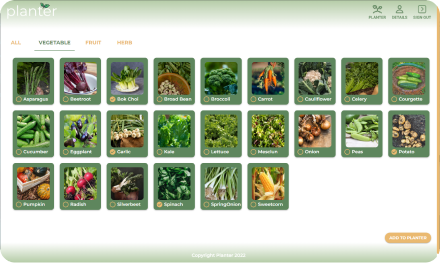
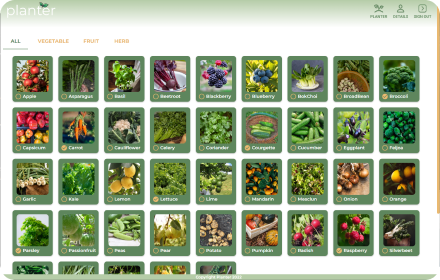
Monthly planter ui and planting tip flip cards completed

diff --git a/src/Pages/PlannerViewPage.jsx b/src/Pages/PlannerViewPage.jsx
@@ -12,6 +12,7 @@ import Navbar from "../Components/Navbar";
 import YearlyPlannerTable from "../Components/YearlyPlannerTable";
 import MonthlyPlannerTable from "../Components/MonthlyPlannerTable";
 import Footer from "../Components/Footer";
+import FlipCard from "../Components/FlipCard";
 
 // Function for page /planner
 // Contains the users selected plants and displays them in a yearly & monthly view
@@ -41,6 +42,86 @@ function Planner() {
         </TabPanel>
         <TabPanel value="2">
           <MonthlyPlannerTable />
+          <div className="flipCardContainer">
+            <FlipCard
+              image={"IconsandImages/seedgarden.png"}
+              title={"SEED GARDEN PLANTING"}
+              information={
+                <p>
+                  Plant all seeds twice as deep as their size
+                  <br />
+                  <br />
+                  Make sure they don't dry out during germination and give them
+                  a good watering
+                  <br />
+                  <br />
+                  Too much water can be a problem, so soil should feel wet as a
+                  sponge that's been wrung out
+                </p>
+              }
+            />
+            <FlipCard
+              image={"IconsandImages/seedtray.png"}
+              title={"SEED TRAY PLANTING"}
+              information={
+                <p>
+                  Plant all seeds twice as deep as their size in some vegetable
+                  potting mix
+                  <br />
+                  <br />
+                  Make sure they don't dry out during germination and give them
+                  a good watering
+                  <br />
+                  <br />
+                  Soil should feel wet as a sponge that's been wrung out
+                </p>
+              }
+            />
+            <FlipCard
+              image={"IconsandImages/transplantgarden.png"}
+              title={"TRANSPLANT TO GARDEN"}
+              information={
+                <p>
+                  Dig a hole twice the depth and width of the root ball of your
+                  plant
+                  <br />
+                  <br />
+                  Partly fill the hole with Vegetable Mix
+                  <br />
+                  <br />
+                  Gently loosen the root ball of your plant and position the
+                  plant in the centre of the hole
+                  <br />
+                  <br />
+                  Fill in with Vegetable Mix and press soil gently around the
+                  base of the plant
+                  <br />
+                  <br />
+                  Water your plant well
+                </p>
+              }
+            />
+            <FlipCard
+              image={"IconsandImages/transplantpot.png"}
+              title={"TRANSPLANT TO POTS"}
+              information={
+                <p>
+                  Partly fill your container with Vegetable Mix
+                  <br />
+                  <br />
+                  Gently loosen the root ball of your plant and position the
+                  plant in the container
+                  <br />
+                  <br />
+                  Fill your container with Vegetable Mix up to 3cm from the top
+                  and press soil gently around the base of the plant
+                  <br />
+                  <br />
+                  Water your plant well
+                </p>
+              }
+            />
+          </div>
         </TabPanel>
         <TabPanel value="3">Next Month View</TabPanel>
       </TabContext>

diff --git a/src/Components/MonthlyPlannerTable.jsx b/src/Components/MonthlyPlannerTable.jsx
@@ -27,11 +27,11 @@ const MonthlyPlannerTable = () => {
         <TableHead>
           <TableRow>
             <TableCell className="headerLabels">PLANTS</TableCell>
-            <TableCell className="monthLabels">
+            <TableCell className="centerLabels">
               PLANTING RECOMMENDATION
             </TableCell>
             <TableCell className="infoIconColumn"></TableCell>
-            <TableCell className="monthLabels">HARVEST</TableCell>
+            <TableCell className="headerLabels">HARVEST</TableCell>
           </TableRow>
         </TableHead>
         <TableBody>
@@ -44,12 +44,12 @@ const MonthlyPlannerTable = () => {
               />
               Apple
             </TableCell>
-            <TableCell className="info">
+            <TableCell className="plantTips">
               Plant seeds directly in the garden after a month and a half of
               cold stratification
             </TableCell>
-            <TableCell className="info">
-              <IconButton aria-label="info" disableRipple>
+            <TableCell className="plantTips">
+              <IconButton disableRipple>
                 <InfoOutlinedIcon className="infoIcon" />
               </IconButton>
             </TableCell>
@@ -64,12 +64,12 @@ const MonthlyPlannerTable = () => {
               />
               Blackbery
             </TableCell>
-            <TableCell className="info">
+            <TableCell className="plantTips">
               Plant seeds into seed trays after 3 - 4 months of cold
               stratification
             </TableCell>
-            <TableCell className="info">
-              <IconButton aria-label="info" disableRipple>
+            <TableCell className="plantTips">
+              <IconButton disableRipple>
                 <InfoOutlinedIcon className="infoIcon" />
               </IconButton>
             </TableCell>
@@ -84,11 +84,11 @@ const MonthlyPlannerTable = () => {
               />
               Blueberry
             </TableCell>
-            <TableCell className="info">
+            <TableCell className="plantTips">
               Plant seeds into seed trays after 3 months of cold stratification
             </TableCell>
-            <TableCell className="info">
-              <IconButton aria-label="info" disableRipple>
+            <TableCell className="plantTips">
+              <IconButton disableRipple>
                 <InfoOutlinedIcon className="infoIcon" />
               </IconButton>
             </TableCell>

diff --git a/src/Components/FlipCard.css b/src/Components/FlipCard.css
@@ -1,0 +1,83 @@
+/* Card container css */
+.flipCard {
+  width: 345px;
+  height: 250px;
+  margin-top: 1.25rem;
+  margin-bottom: 1.25rem;
+  margin-left: 1.25rem;
+  margin-right: 1rem;
+}
+
+/* Card inner contents css */
+.flipCardInner {
+  width: 100%;
+  height: 100%;
+  transition: transform 1s;
+  transform-style: preserve-3d;
+  cursor: pointer;
+  position: relative;
+}
+
+/* Card hover css */
+.flipCardInner:hover {
+  transform: rotateY(180deg);
+}
+
+.cardFace {
+  position: absolute;
+  width: 100%;
+  height: 100%;
+  -webkit-backface-visibility: hidden;
+  backface-visibility: hidden;
+  overflow: hidden;
+}
+
+/* Front of card css */
+.cardFace--front {
+  box-shadow: 0px 2px 4px 0px rgba(0, 0, 0, 0.25);
+  background-color: #5e865d;
+  border-radius: 10px;
+  display: flex;
+  flex-direction: column;
+  align-items: center;
+  justify-content: center;
+}
+
+/* Card title css */
+.cardTitle {
+  color: #ffffff;
+  margin-bottom: 10px;
+}
+
+/* Card image css */
+.infoImage {
+  margin: 15px 10px 0px 10px;
+  box-shadow: 0px 2px 4px 0px rgba(0, 0, 0, 0.25);
+}
+
+/* Back of card css */
+.cardFace--back {
+  box-shadow: 0px 2px 4px 0px rgba(0, 0, 0, 0.25);
+  background-color: #5e865d;
+  border-radius: 10px;
+  display: flex;
+  flex-direction: column;
+  align-items: center;
+  justify-content: center;
+  transform: rotateY(180deg);
+}
+
+/* Card title css */
+.header {
+  color: #eab970;
+  margin-bottom: 10px;
+}
+
+/* Card info blurb css */
+.information {
+  color: #ffffff;
+  margin-left: 10px;
+  margin-top: -10px;
+  font-size: 13px;
+  font-weight: 500;
+}

diff --git a/src/Components/FlipCard.jsx b/src/Components/FlipCard.jsx
@@ -1,0 +1,27 @@
+// API Imports
+import React, { useState } from "react";
+// In-file CSS & Component Imports
+import "./FlipCard.css";
+
+// Component for info flip card on /planner page
+// Contains fields for planting tips and flips on hover
+const FlipCard = ({ image, title, information }) => {
+  // Output
+  return (
+    <div className="flipCard">
+      <div className="flipCardInner">
+        <div className="cardFace cardFace--front">
+          <img className="infoImage" src={image} alt="" />
+          <h3 className="cardTitle">{title}</h3>
+        </div>
+        <div className="cardFace cardFace--back">
+          <h3 className="header">{title}</h3>
+          <p className="information">{information}</p>
+        </div>
+      </div>
+    </div>
+  );
+};
+
+// Export from module
+export default FlipCard;

diff --git a/src/Pages/HomePage.jsx b/src/Pages/HomePage.jsx
@@ -35,7 +35,7 @@ function HomePage() {
       </div>
       <div className="cardContainer">
         <HomeCard
-          image={"IconsandImages/placeholder.png"}
+          image={"IconsandImages/yearlyplanner.png"}
           title={"YEARLY PLANNER"}
           info={
             "View the planting months for your favourite fruit and vegetables all year round"
@@ -49,7 +49,7 @@ function HomePage() {
           }
         />
         <HomeCard
-          image={"IconsandImages/placeholder.png"}
+          image={"IconsandImages/monthlyplanner.png"}
           title={"MONTHLY PLANNING"}
           info={
             "Sign in to your account to save your Planter and stay prepared for the months to come"

diff --git a/src/Components/YearlyPlannerTable.css b/src/Components/YearlyPlannerTable.css
@@ -16,7 +16,7 @@ table {
 }
 
 /* Month header css */
-.monthLabels {
+.centerLabels {
   color: #7e9f7e !important;
   font-weight: 700 !important;
 }
@@ -73,14 +73,14 @@ table {
 
 /* THIS MONTH VIEW CSS */
 /* Info container css */
-.info {
+.plantTips {
   background-color: #d0e8de !important;
   color: #5e875d !important;
   font-weight: 600 !important;
-  font-size: 16px !important;
+  font-size: 14px !important;
 }
 
 .infoIcon {
   color: #eab970 !important;
-  font-size: 40px !important;
+  font-size: 35px !important;
 }

diff --git a/src/Pages/PlantSelectionPage.jsx b/src/Pages/PlantSelectionPage.jsx
@@ -48,7 +48,7 @@ function PlantSelection() {
                 <Tab
                   label="VEGETABLE"
                   value="2"
-                  onLoad={() => filterResult("vegetable")}
+                  onClick={() => filterResult("vegetable")}
                 />
                 <Tab
                   label="FRUIT"

diff --git a/src/Pages/PlannerView.css b/src/Pages/PlannerView.css
@@ -1,3 +1,17 @@
+body {
+  margin-bottom: 2rem;
+}
+
+/* Flip card container css */
+.flipCardContainer {
+  width: 100%;
+  flex-wrap: wrap;
+  display: flex;
+  justify-content: space-between;
+  justify-content: center;
+  margin-top: 20px;
+}
+
 /* Edit planner button css */
 .editButton {
   justify-content: right;

diff --git a/src/Components/HomeCard.css b/src/Components/HomeCard.css
@@ -2,7 +2,7 @@
 .infoCard {
   box-shadow: 0px 2px 4px 0px rgba(0, 0, 0, 0.25);
   width: 470px;
-  height: 400x;
+  height: 400px;
   background-color: #5e865d;
   display: flex;
   flex-direction: column;
